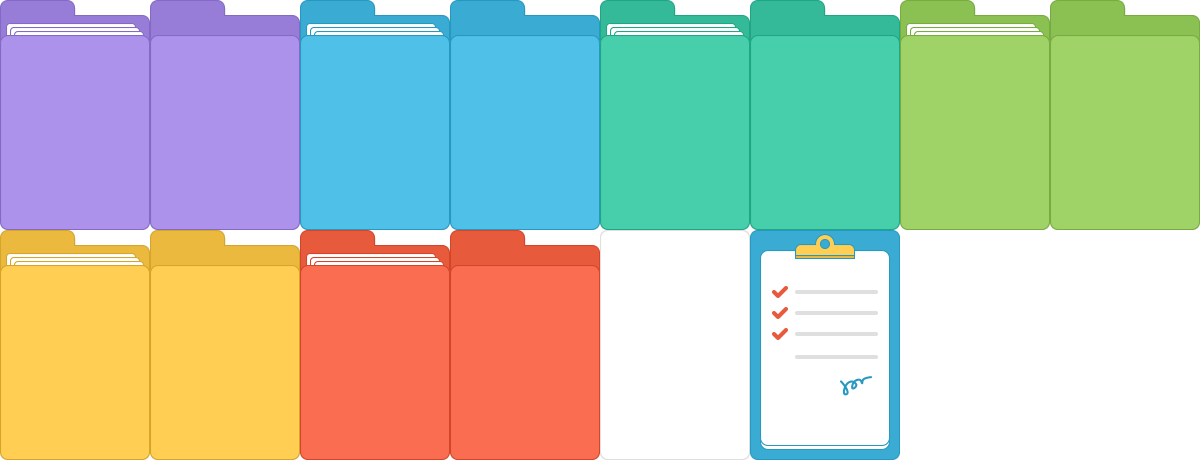
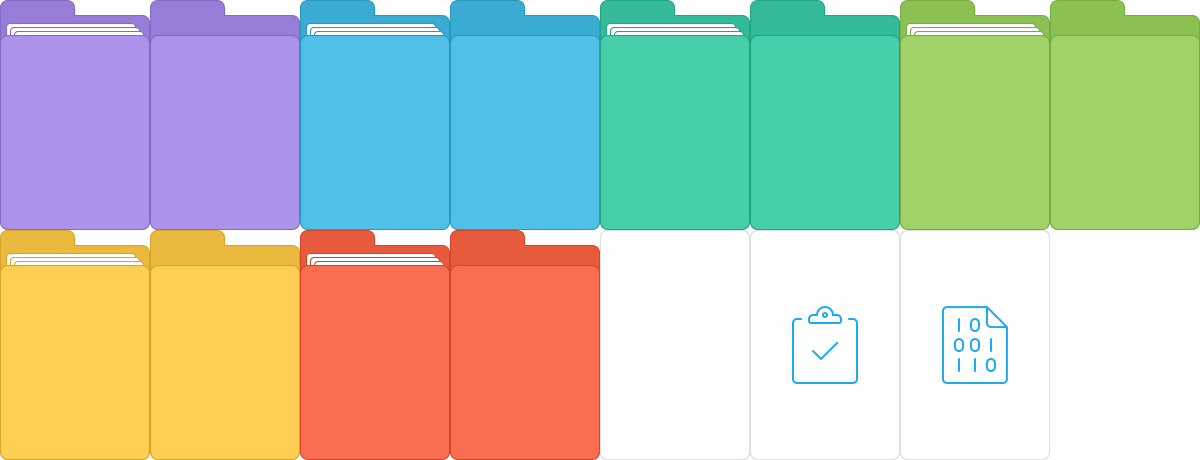
Add binary file and update form

Changed region(s): [[0.6167, 0.487, 0.8325, 1.0]]

diff --git a/mockup/list-business.html b/mockup/list-business.html
@@ -228,6 +228,12 @@
     <div class="file-time">最后更新：2014/12/16  <span class="icon-wechat file-wechat" title="发送到微信"></span></div>
     <span class="btn icon-menu file-menu" style="display: none"></span>
   </div>
+  <div class="file">
+    <div class="binary">
+    <span class="share-info">已发送给 6 人</span> </div>
+    <div class="file-time">最后更新：2014/12/16  <span class="icon-wechat file-wechat" title="发送到微信"></span></div>
+    <span class="btn icon-menu file-menu" style="display: none"></span>
+  </div>
 </div>
 <div class="mask" id="mask-switch"> <span class="mask-close icon-cross"></span>
   <div class="switch-wrapper">

diff --git a/mockup/styles/yiqixie.css b/mockup/styles/yiqixie.css
@@ -755,7 +755,7 @@ body {
 	color: #20a785;
 }
 
-/* === Form === */
+/* === Form & Binary === */
 
 .form {
 	height: 230px;
@@ -763,18 +763,17 @@ body {
 	background-position: -750px -230px;
 }
 
-.form-title {
-	padding: 60px 10px 10px 10px;
-	text-align: center;
-	color: #333;
-	font-size: 14px;
+.binary {
+	height: 230px;
+	background-image: url(../images/folders.png);
+	background-position: -900px -230px;
 }
 
-.form .share-info {
+.form .share-info, .binary .share-info {
 	color: rgba(0, 0, 0, 0.3);
 }
 
-.form .icon-share {
+.form .icon-share, .binary .icon-share {
 	color: rgba(0, 0, 0, 0.3);
 }
 
